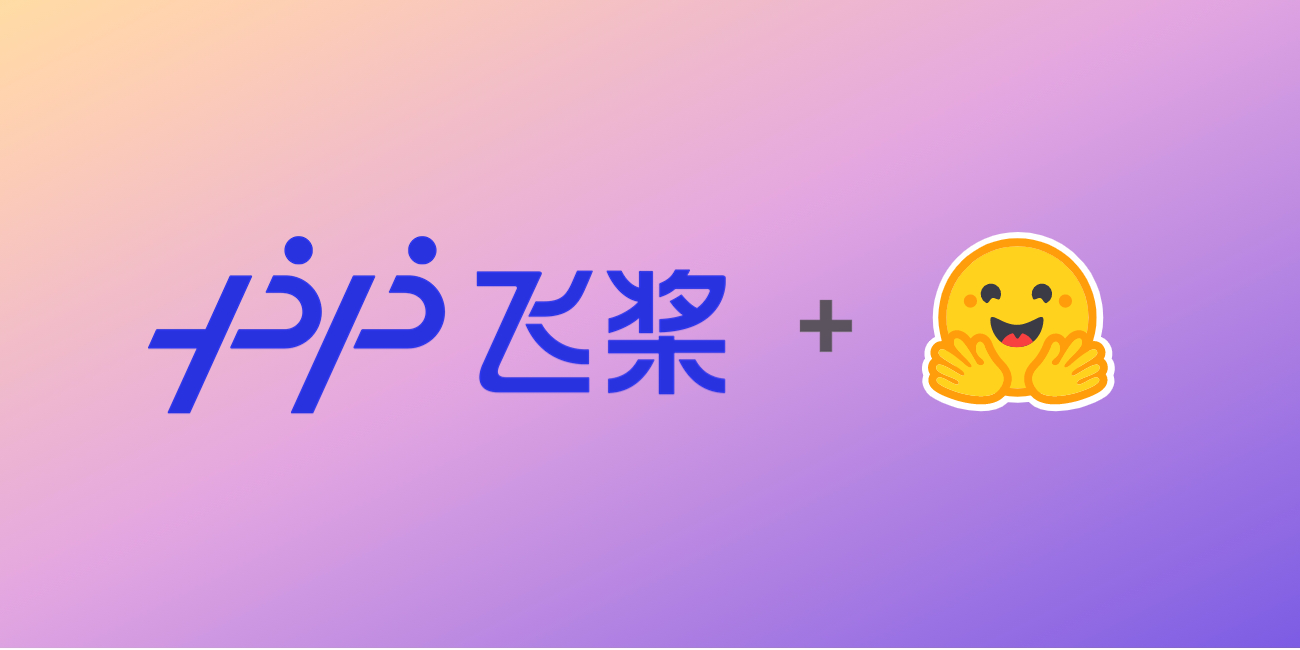
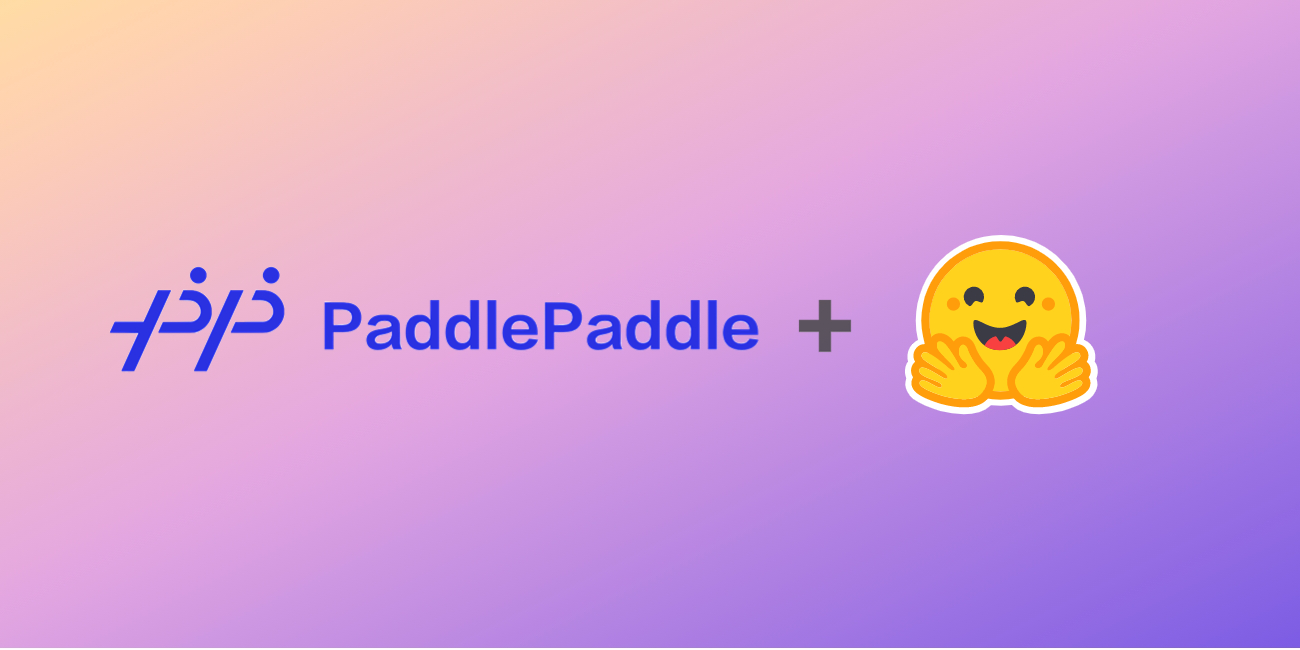
update thumbnail and author info

Changed region(s): [[0.0615, 0.3692, 0.5846, 0.6462], [0.6769, 0.3385, 0.8615, 0.6462]]

diff --git a/paddlepaddle.md b/paddlepaddle.md
@@ -12,6 +12,16 @@ thumbnail: /blog/assets/126_paddlepaddle/thumbnail.png
     </a>
 </div>
 
+<div class="author-card">
+    <a href="/PaddlePaddle">
+        <img class="avatar avatar-user" src="https://aeiljuispo.cloudimg.io/v7/https://s3.amazonaws.com/moonup/production/uploads/1654942635336-5f3ff69679c1ba4c353d0c5a.png?w=200&h=200&f=face" title="Gravatar">
+        <div class="bfc">
+            <code>PaddlePaddle</code>
+            <span class="fullname">PaddlePaddle</span>
+            <span class="bg-gray-100 dark:bg-gray-700 rounded px-1 text-gray-600 text-sm font-mono">guest</span>
+        </div>
+    </a>
+</div>
 
 We are happy to share an open-source partnership between HuggingFace and [PaddlePaddle](https://www.paddlepaddle.org.cn/en) on a shared mission to advance and democratize AI through open source!
 
@@ -58,8 +68,8 @@ Depending on the PaddlePaddle library, you may be able to share your models by p
 ```python
 from paddlenlp.transformers import AutoTokenizer, AutoModelForMaskedLM
 
-tokenizer = AutoTokenizer.from_pretrained("PaddlePaddle/ernie-1.0-base-zh", from_hf_hub=True)
-model = AutoModelForMaskedLM.from_pretrained("PaddlePaddle/ernie-1.0-base-zh", from_hf_hub=True)
+tokenizer = AutoTokenizer.from_pretrained("PaddlePaddle/ernie-3.0-base-zh", from_hf_hub=True)
+model = AutoModelForMaskedLM.from_pretrained("PaddlePaddle/ernie-3.0-base-zh", from_hf_hub=True)
 
 tokenizer.save_to_hf_hub(repo_id="<my_org_name>/<my_repo_name>")
 model.save_to_hf_hub(repo_id="<my_org_name>/<my_repo_name>")
